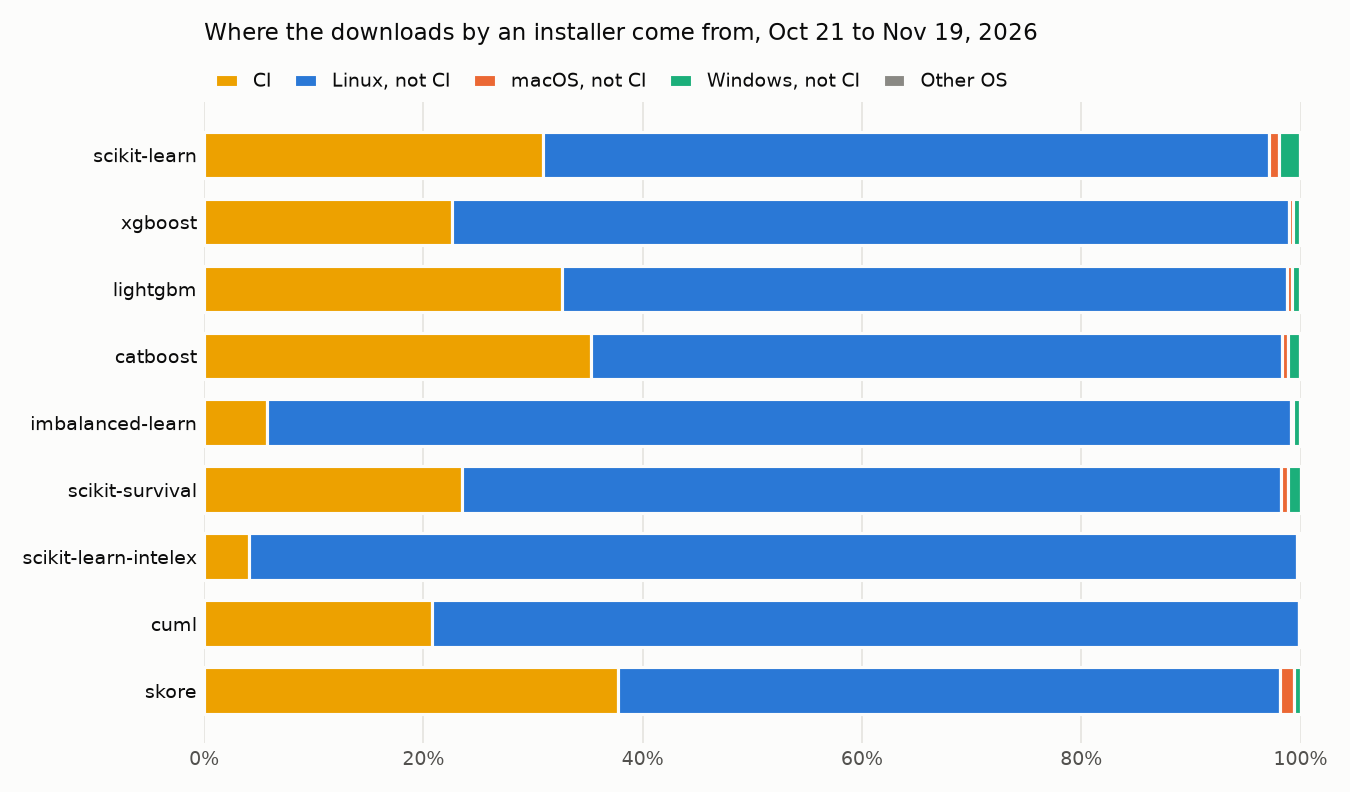
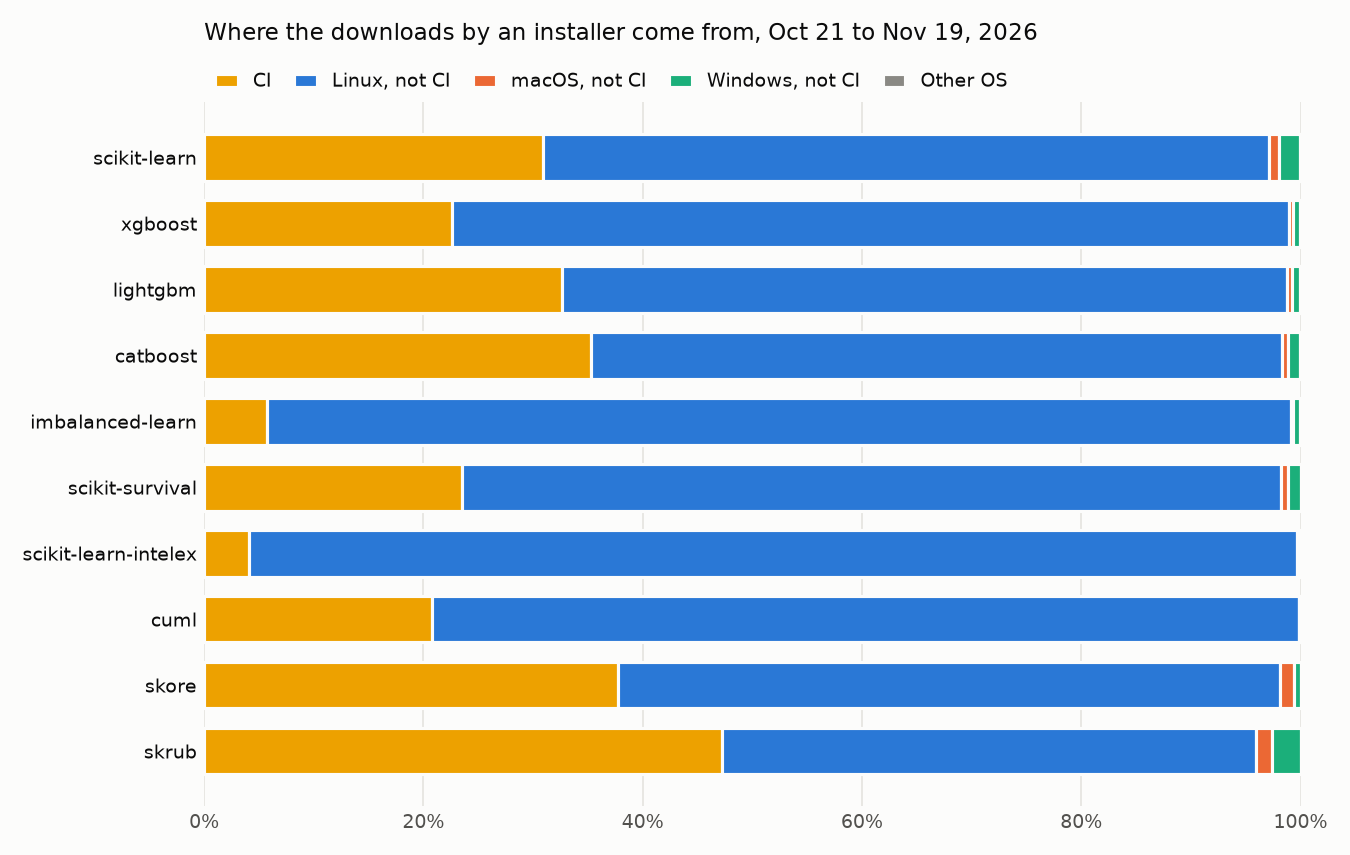
pypi-installs: add skrub to the dashboard

diff --git a/scripts/pypi-installs/dashboard.py b/scripts/pypi-installs/dashboard.py
@@ -67,6 +67,7 @@ PACKAGES = [
     # One PyPI package per CUDA version.
     Package("cuml", pypi=("cuml-cu11", "cuml-cu12", "cuml-cu13")),
     Package("skore"),
+    Package("skrub"),
 ]
 
 CLICKHOUSE_URL = "https://sql-clickhouse.clickhouse.com/?user=demo"

diff --git a/scripts/pypi-installs/dashboard/README.md b/scripts/pypi-installs/dashboard/README.md
@@ -24,6 +24,7 @@ PyPI numbers: Oct 21 to Nov 19, 2026 (30 days). Made by
 | [scikit-learn-intelex](#scikit-learn-intelex) | 274k | 264k | +142% | 4.1% | 741 | 0.012 |
 | [cuml](#cuml) | 314k | 253k | +22% | 21% | 268 | 0.0044 |
 | [skore](#skore) | 12.5k | 9,174 | +80% | 38% | 171 | 0.0028 |
+| [skrub](#skrub) | 287k | 274k | +47% | 47% | 11.2k | 0.18 |
 
 - **All downloads** is the number usually quoted. It includes mirrors and
   scrapers.
@@ -51,6 +52,7 @@ PyPI numbers: Oct 21 to Nov 19, 2026 (30 days). Made by
 | scikit-learn-intelex | 4.1% | 96% | 0.3% | 0.19 | 5.2% | 1,070 | 58% | US 17%, JP 12%, DE 7.7% |
 | cuml | 21% | 79% | 0.1% | 0.59 | 86% | 901 | 57% | US 11%, CA 11%, CN 10% |
 | skore | 38% | 60% | 1.9% | 0.27 | 69% | 272 | 28% | FR 48%, US 9.4%, SG 5.8% |
+| skrub | 47% | 49% | 4.1% | 0.45 | 64% | 3,340 | 8.7% | US 21%, CN 7.5%, JP 6.9% |
 
 - **Linux, not CI** mixes servers, containers, cloud notebooks, CI that
   is not flagged and Linux desktops. It can't be split further.
@@ -78,6 +80,7 @@ PyPI numbers: Oct 21 to Nov 19, 2026 (30 days). Made by
 | scikit-learn-intelex | 2026.2.0 (2026-10-16) | 63% | 1 month | 33% | 30% | 0% |
 | cuml | 26.10.0 (2026-10-08) | 1.2% | 7 months | 0.2% | 0.1% | 3.9% |
 | skore | 0.29.1 (2026-11-01) | 12% | 1 month | 1.1% | 2.2% | 4.5% |
+| skrub | 0.11.0 (2026-10-01) | 13% | 3 months | 0.2% | 0.4% | 0.9% |
 
 - **Median release age**: half of the downloads are of a release older
   than this. Old releases mean pinned environments and old Pythons, more
@@ -102,6 +105,7 @@ Downloads in October 2026, the last month published for conda:
 | scikit-learn-intelex | 239k | 3,881 | anaconda 16k | 7.7% |
 | cuml | 260k | 0 | rapidsai 7,072 | 2.7% |
 | skore | 7,558 | 599 | 0 | 7.3% |
+| skrub | 224k | 1,387 | 0 | 0.6% |
 
 The conda numbers have no CI flag and no OS-level detail in common
 with PyPI, so the conda share compares all the conda downloads with
@@ -232,6 +236,19 @@ PyPI packages: cuml-cu11, cuml-cu12, cuml-cu13.
   - 6.4%: US, uv, Linux, Python 3.11, glibc 2.43, CI
   - 6.0%: CN, pip, Linux, Python 3.12, glibc 2.41
   - 4.4%: US, pip, Linux, Python 3.12, glibc 2.41
+
+### skrub
+
+- Installers: uv 64%, pip 35%, poetry 0.8%.
+- Countries, all installers: US 55%, DE 10%, NL 7.5%, GB 4.5%, SG 3.4%.
+- Countries, desktop: US 21%, CN 7.5%, JP 6.9%, KR 5.9%, DE 5.5%.
+- Releases: 0.10.1 42%, 0.10.0 19%, 0.11.0 13%, 0.5.3 11%, 0.9.0 9.2%.
+- Largest fingerprints:
+  - 8.7%: DE, uv, Linux, Python 3.13, glibc 2.39, CI
+  - 6.0%: US, uv, Linux, Python 3.12, glibc 2.39, CI
+  - 5.2%: US, uv, Linux, Python 3.12, glibc 2.36, CI
+  - 4.0%: NL, pip, Linux, Python 3.12, glibc 2.39
+  - 3.7%: US, pip, Linux, Python 3.13, glibc 2.39
 
 ## Methods and limits
 
